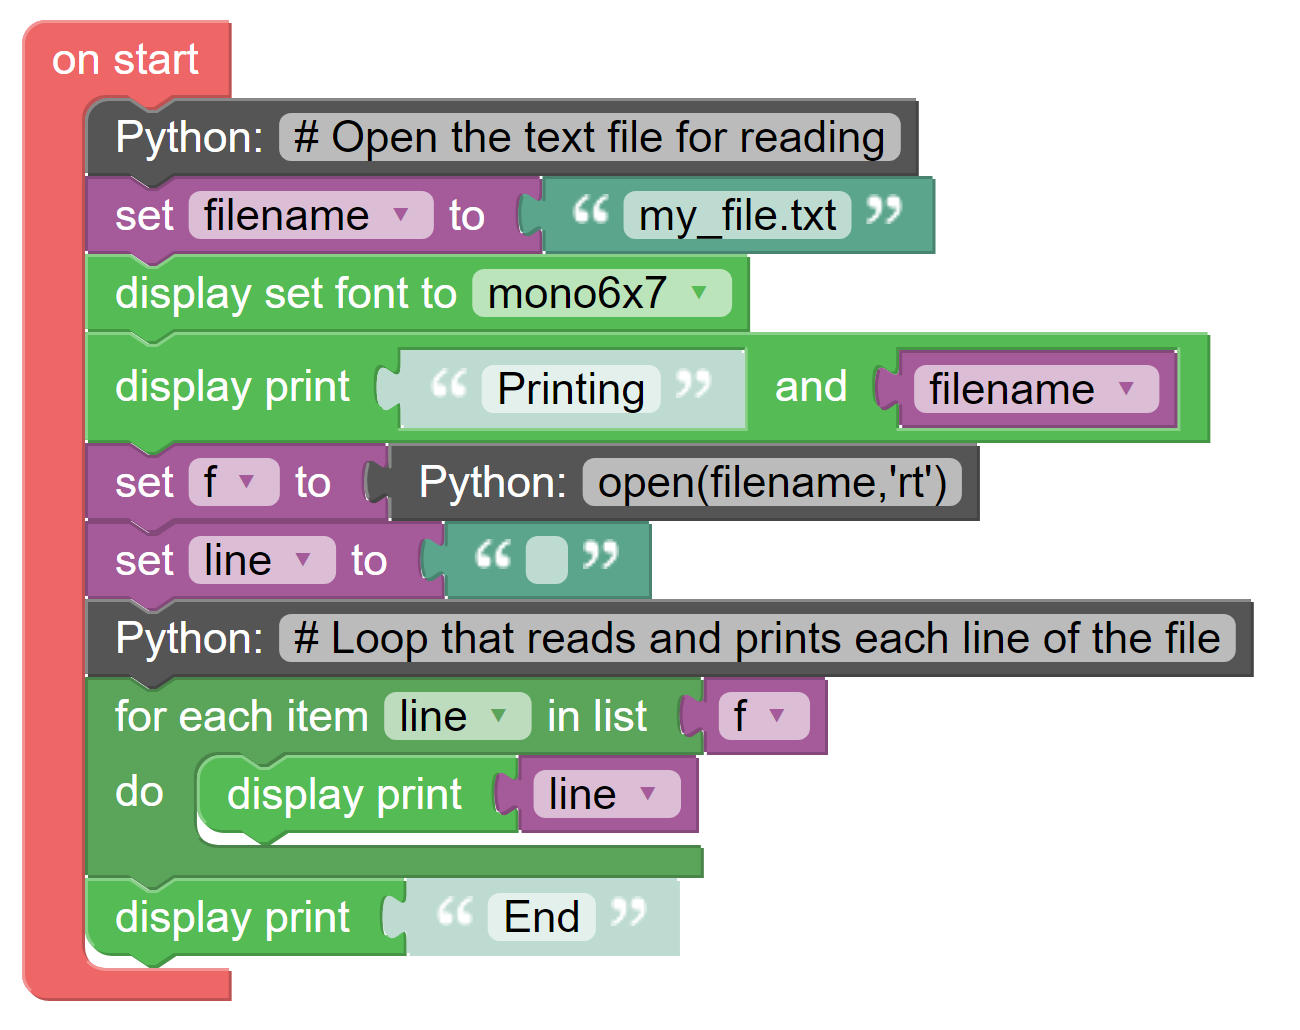
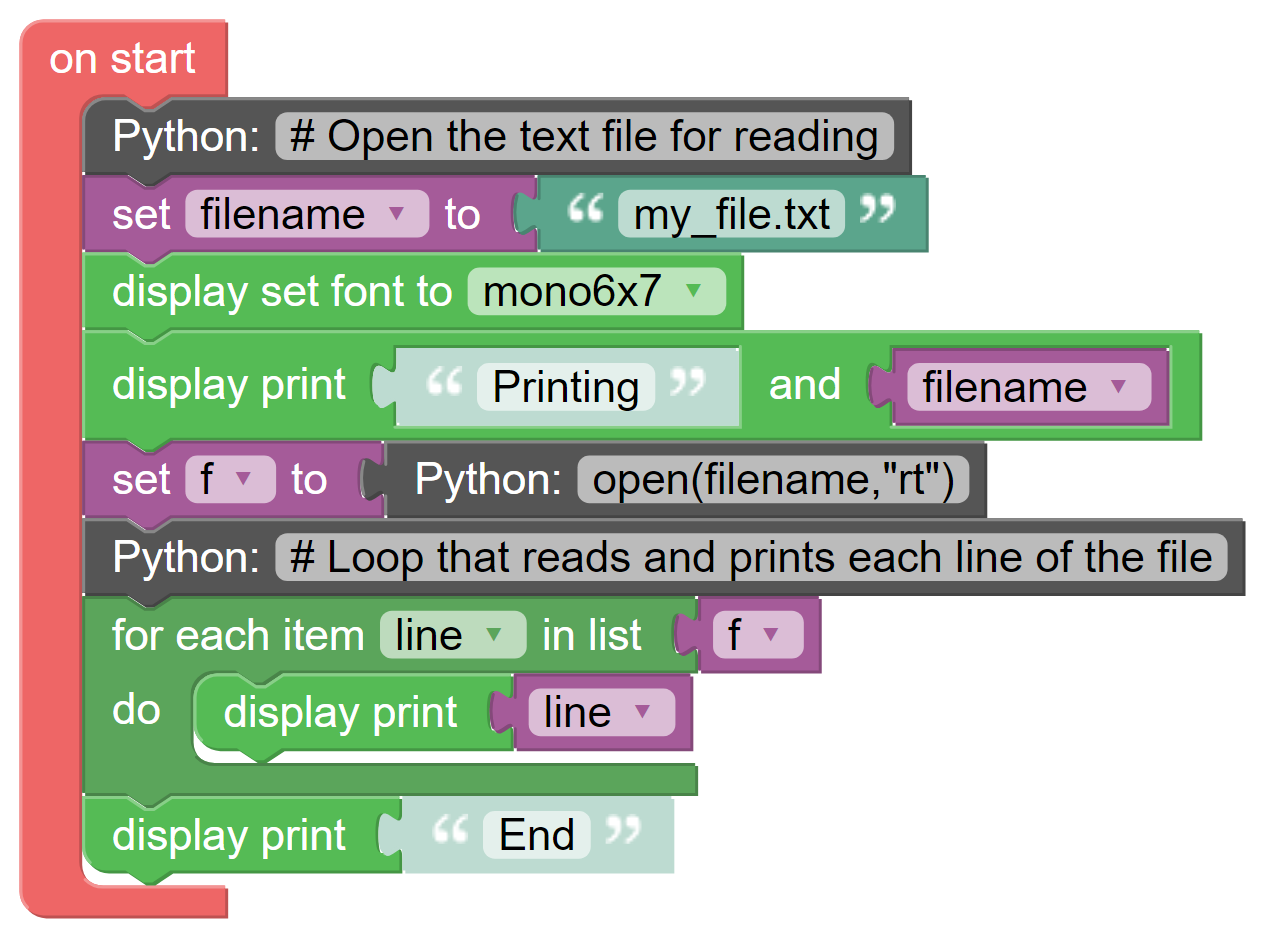
Typos corrected

diff --git a/docs/source/advanced.rst b/docs/source/advanced.rst
@@ -96,8 +96,7 @@ The MicroPython code that the KookaBlockly script generates is shown below.
       kooka.display.setfont(fonts.mono6x7)
       kooka.display.print('Printing', filename, show=0)
       f = open(filename,'rt')
-      line = ''
-      # Loop that reads and prints each line of the file
+       # Loop that reads and prints each line of the file
       for line in f:
         kooka.display.print(line, show=0)
       kooka.display.print('End', show=0)

diff --git a/docs/source/display.rst b/docs/source/display.rst
@@ -136,7 +136,7 @@ followed by the output of any value block.
    :align: center
    
 
-The following is an example using the date and time:
+The following is an example to display the time:
  
 .. figure:: images/display-print-and-example.png
    :width: 400
